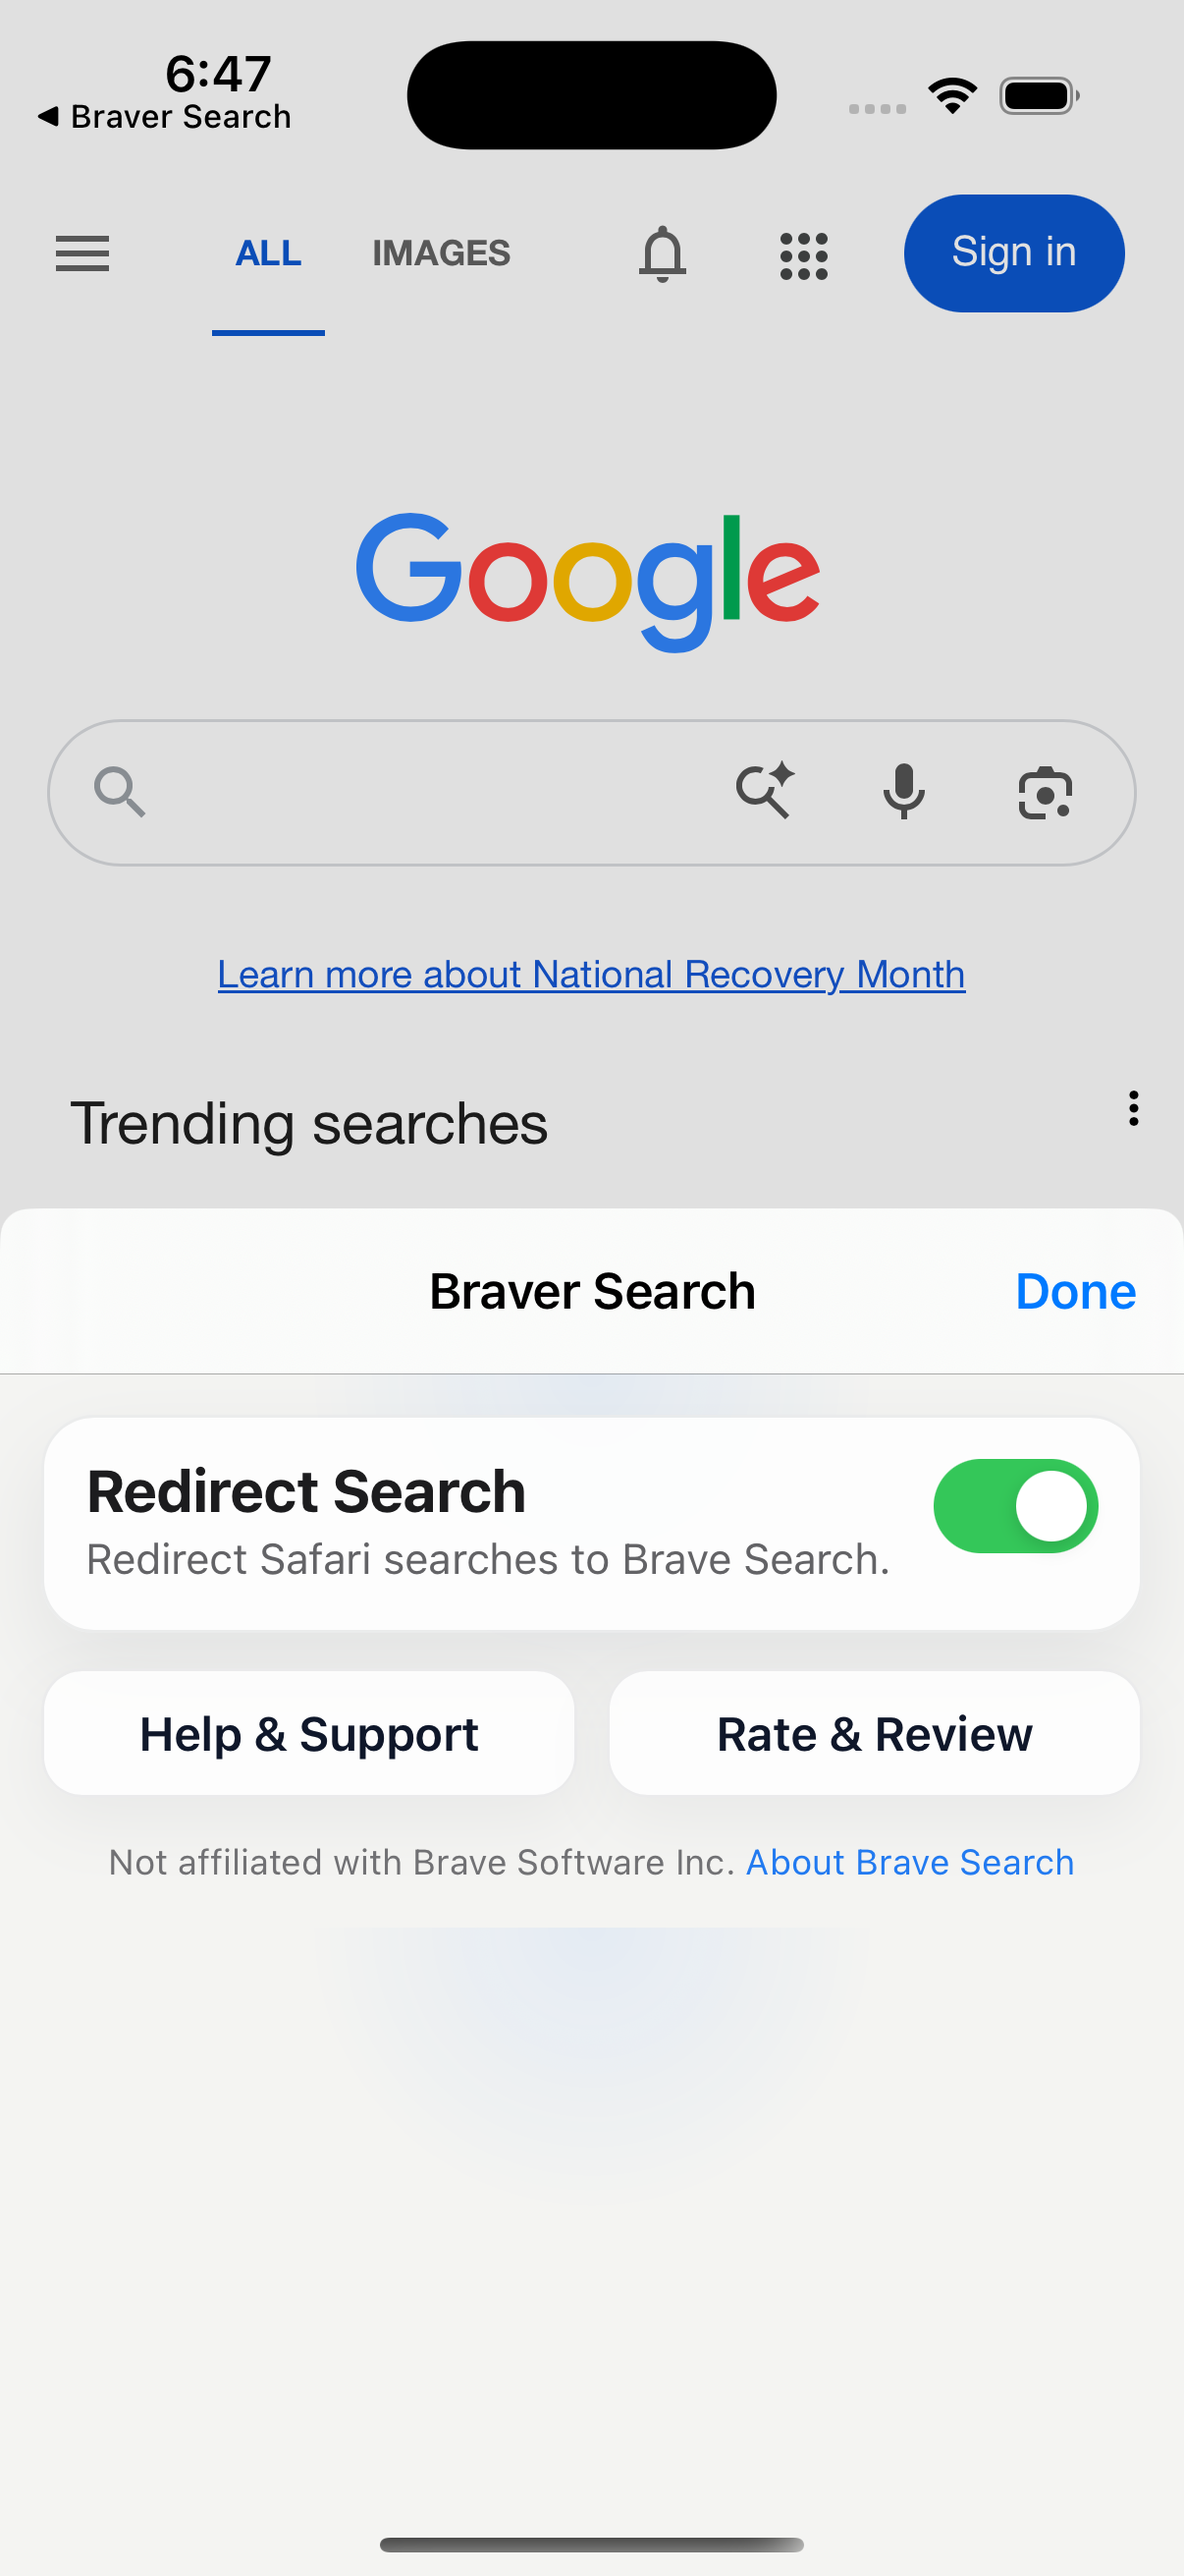
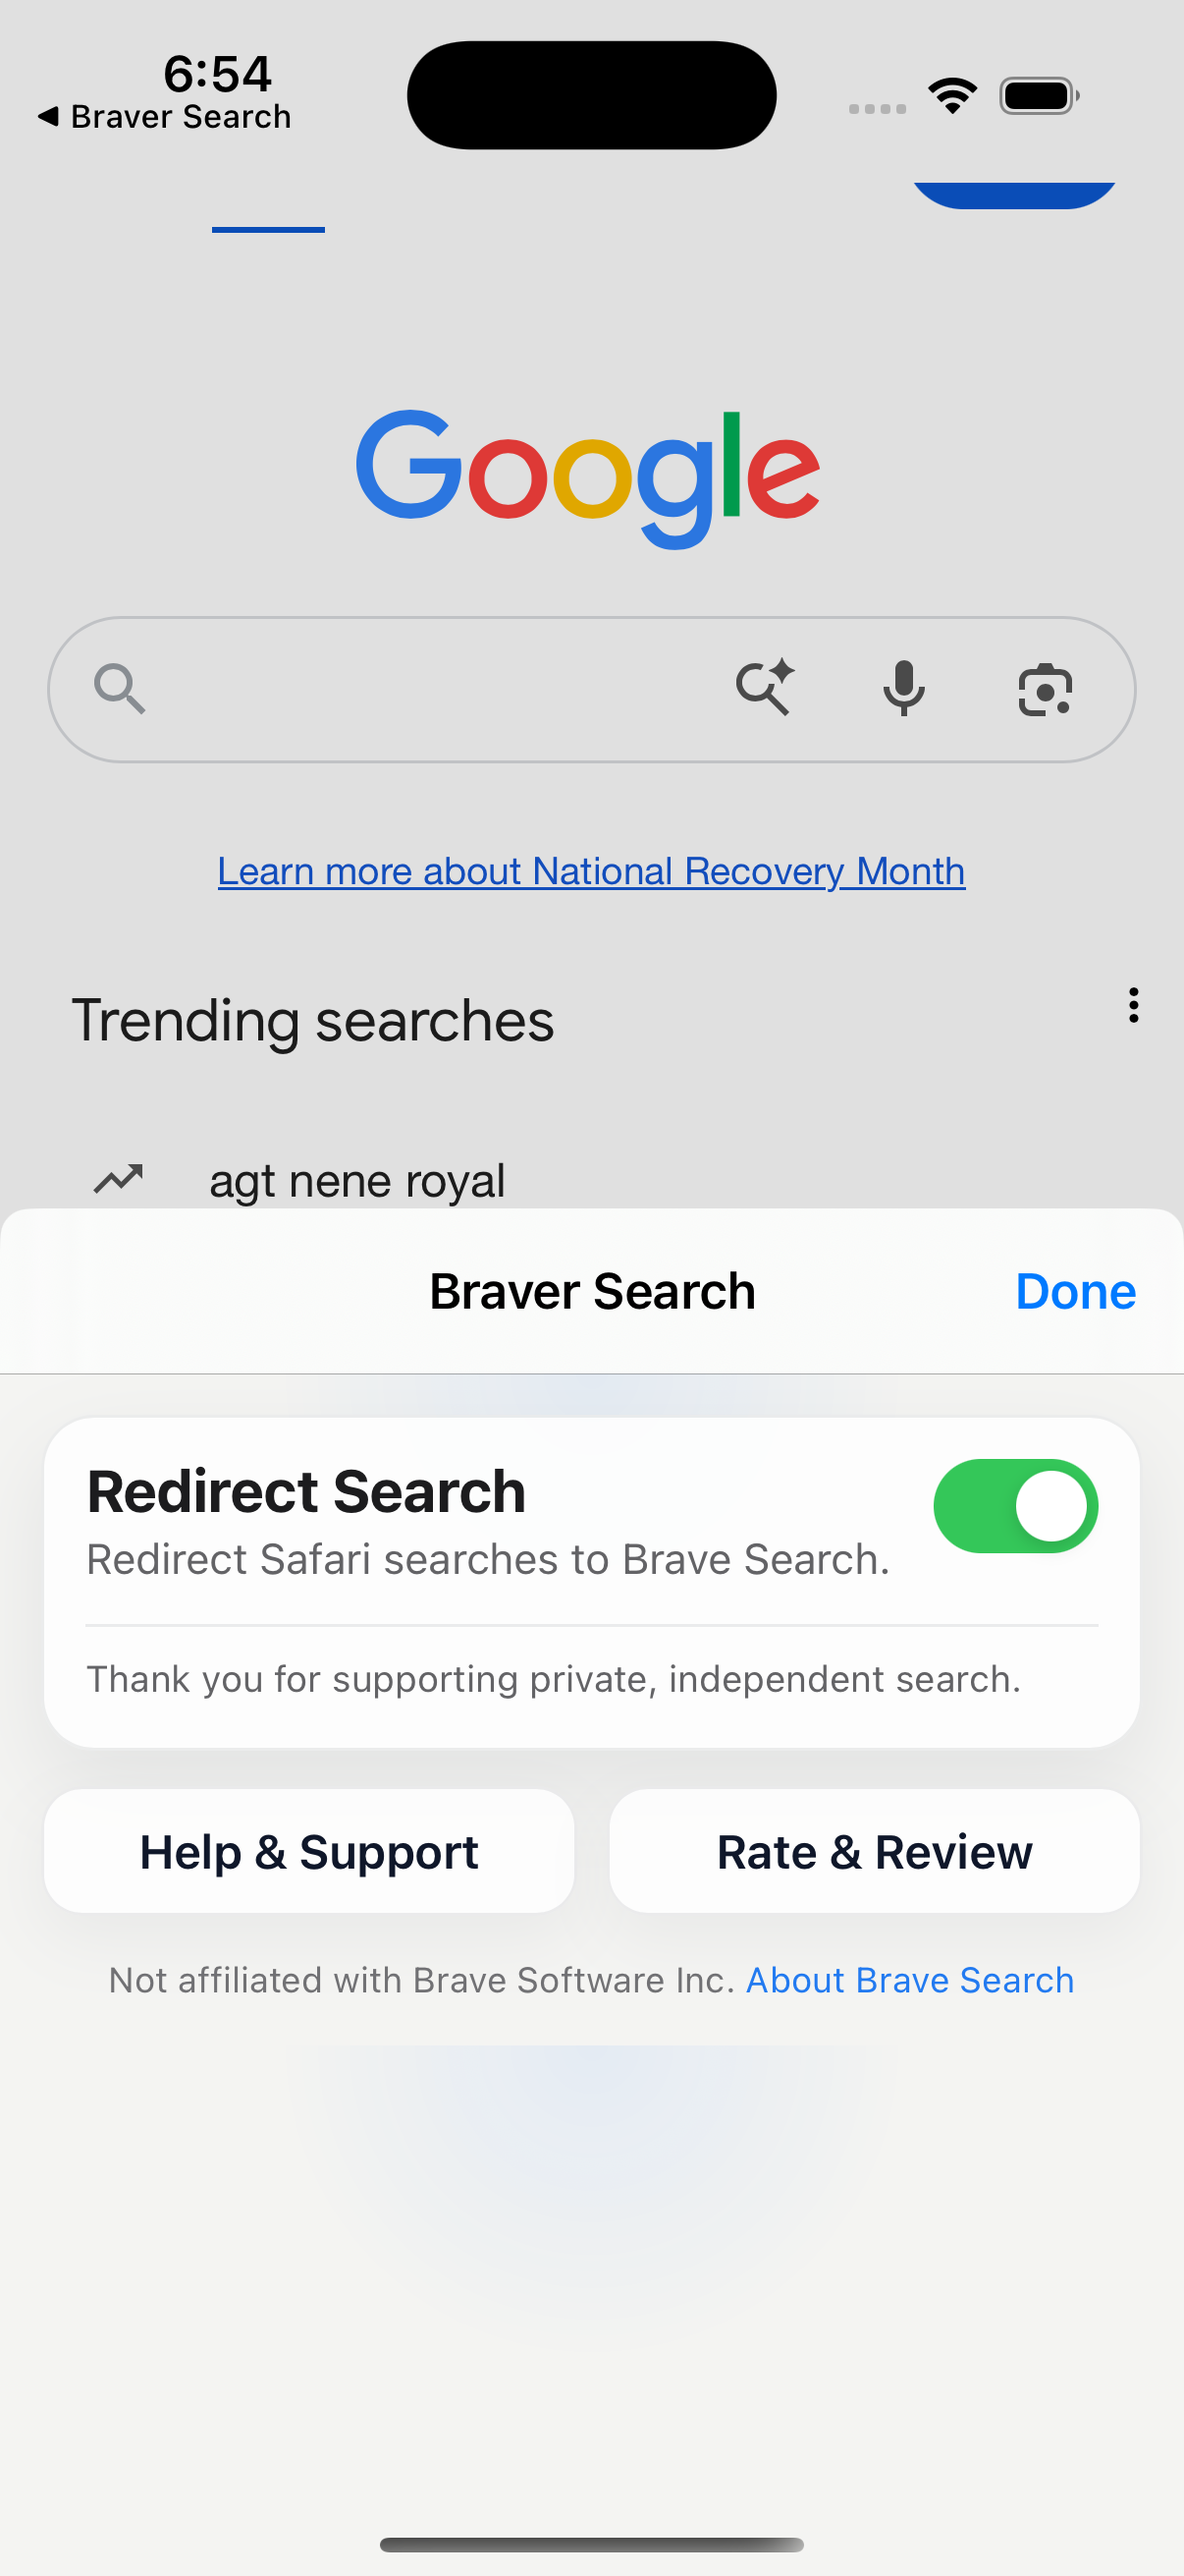
Thank lifetime patrons in the Safari extension popup

diff --git a/Braver Search/Shared (Extension)/Resources/popup.js b/Braver Search/Shared (Extension)/Resources/popup.js
@@ -59,6 +59,8 @@ document.addEventListener('DOMContentLoaded', async function() {
 
     function showAccessState(response) {
         const blocked = response?.accessAllowed === false;
+        document.getElementById('patronNote').classList.toggle('hidden',
+            response?.userState !== 'lifetime' || response?.accessAllowed !== true);
         document.getElementById('redirectToggle').classList.toggle('hidden', blocked);
         document.getElementById('accessCard').classList.toggle('hidden', !blocked);
         // Preserve the saved switch preference. Access, not a switch change, pauses redirects.

diff --git a/Braver Search/Tests/JavaScript/popup.test.js b/Braver Search/Tests/JavaScript/popup.test.js
@@ -13,7 +13,7 @@ describe('Popup Script', () => {
         document.body.innerHTML = `
             <h1 id="redirectTitle"></h1><p id="redirectDescription"></p>
             <label id="redirectToggle"><input type="checkbox" id="toggleButton"></label>
-            <a id="accessLink"></a>
+            <a id="accessLink"></a><p id="patronNote" class="hidden"></p>
             <section id="accessCard" class="hidden"><h2 id="accessTitle"></h2><p id="accessMessage"></p></section>
             <a id="reviewLink" href="#"></a>
             <section id="supportCard" class="hidden"></section>

diff --git a/Braver Search/Shared (Extension)/Resources/popup.css b/Braver Search/Shared (Extension)/Resources/popup.css
@@ -74,6 +74,15 @@ body {
   color: var(--muted-color);
 }
 
+.patron-note {
+  margin: 12px 0 0;
+  padding-top: 10px;
+  border-top: 1px solid var(--card-border);
+  font-size: 0.78rem;
+  line-height: 1.4;
+  color: var(--muted-color);
+}
+
 .toggle {
   position: relative;
   display: inline-block;

diff --git a/Braver Search/Shared (Extension)/Resources/popup.html b/Braver Search/Shared (Extension)/Resources/popup.html
@@ -18,6 +18,7 @@
             <span class="slider"></span>
           </label>
         </div>
+        <p id="patronNote" class="patron-note hidden">Thank you for supporting private, independent search.</p>
       </section>
 
       <section id="accessCard" class="support-card hidden">

diff --git a/docs/MONETIZATION-VERIFICATION.md b/docs/MONETIZATION-VERIFICATION.md
@@ -438,3 +438,17 @@ All three views fit within Safari's modal without clipped copy or CTAs. Enabled
 the development extension in this simulator and allowed its Google page access
 for one day to open the popup. No settings on the physical iPhone were changed.
 Copies are on the Mac in `/Users/bishop/Downloads/Braver-Safari-Popup-States/`.
+
+## Lifetime patron note — September 24
+
+The shared iOS/Mac extension popup now thanks lifetime owners with:
+“Thank you for supporting private, independent search.” It is a small, muted note
+inside the redirect card, separated by a fine divider. It is shown only when the
+native state is lifetime with access allowed; trial, expired, unknown, and legacy
+states do not display it. No donation action was added.
+
+Verified visually in the actual simulator Safari popup and updated
+[the lifetime screenshot](monetization/safari-popup/lifetime.png), including its
+copy in the Mac Downloads folder. All 89 JavaScript tests and signed generic-iOS,
+Mac, and simulator builds passed. The physical iPhone was unavailable as an Xcode
+destination, so this last popup copy update has not been installed there yet.
